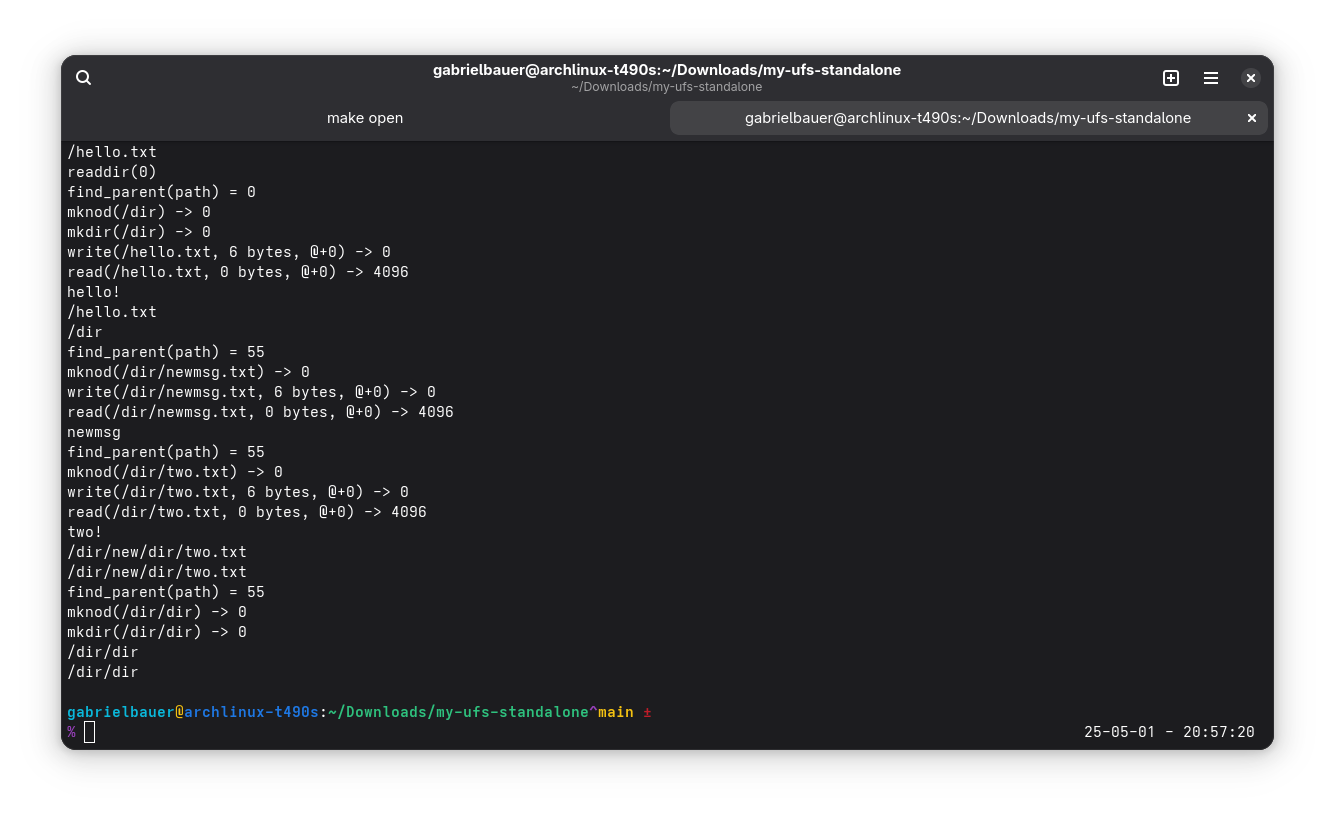
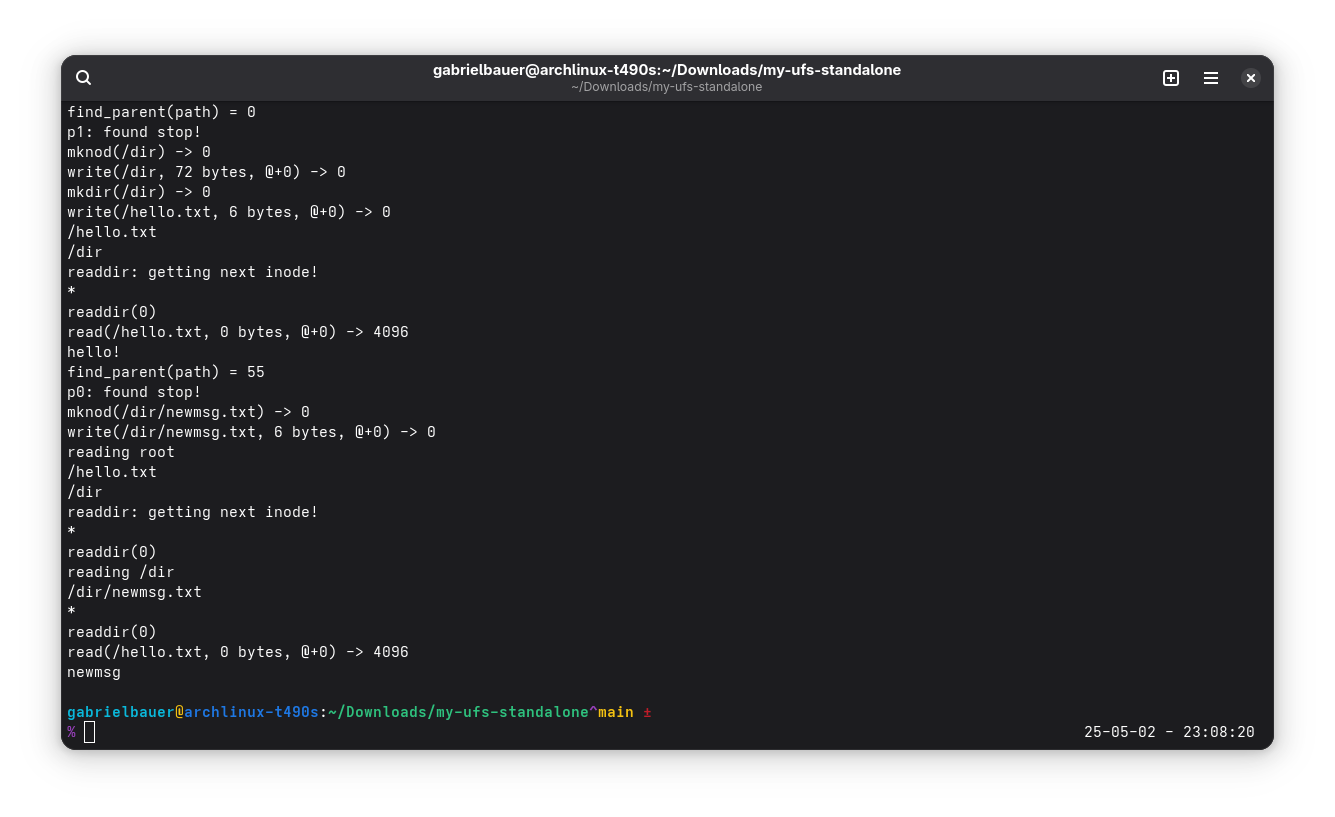
progress

diff --git a/read_root.c b/read_root.c
@@ -6,6 +6,7 @@
 #include "inode.h"
 #include "bitmap.h"
 #include "directory.h"
+#include "mkfs.h"
 
 dirent stop;
 
@@ -122,7 +123,6 @@ _mknod(const char *path, int mode, int k)
 		printf("found none, getting next inode!\n");
 		_mknod(path, mode, p->iptr);
 	}
-	printf("p1: %s\n", p1->name);
 	printf("mknod(%s) -> %d\n", path, rv);
 	return rv;
 }
@@ -133,18 +133,10 @@ mknod(const char *path, int mode)
 	return _mknod(path, mode, find_parent(path));
 }
 
-// most of the following callbacks implement
-// another system call; see section 2 of the manual
 int
-mkdir(const char *path, int mode)
+is_dir(int mode)
 {
-	int rv = mknod(path, mode | 040000);
-	//printf("%d\n", count_l(path));
-	// TODO: Nested Directories
-	/*for (int i=0; i<count_l(path)) {
-	}*/
-	printf("mkdir(%s) -> %d\n", path, rv);
-	return rv;
+	return ((040000 ^ mode) < 010000) ? true : false;
 }
 
 // Actually write data
@@ -159,7 +151,6 @@ write(const char *path, const char *buf, size_t size, off_t offset)
 	inode* h = get_inode(1);
 	char *data0, *data1;
 	int i0, i1;
-write_loop:
 	if (start) {
 		data0 = ((char*)get_root_start()+h->ptrs[0]+offset);
 		start = false;
@@ -179,7 +170,7 @@ write_loop:
 		if (n->size[0] > 0) {
 			strncpy(data0, buf, n->size[0]);
 			strncat(data1 + (int)n->size[0], buf+n->size[0], n->size[1]);
-			strncat(data1 + (int)n->size[0] + (int)n->size[1], "\0", 1);
+			data1[n->size[0] + n->size[1]] = '\0';
 			n->size[1]=p1;
 			n->ptrs[0] = h->ptrs[0];
 			h->ptrs[0] += n->size[0];
@@ -187,7 +178,7 @@ write_loop:
 			h->ptrs[0] += n->size[1];
 		} else {
 			strncpy(data0, buf, size);
-			strncat(data0, "\0", 1);
+			data0[size] = '\0';
 			n->size[0]=size;
 			n->ptrs[0] = h->ptrs[0];
 			h->ptrs[0] += size;
@@ -229,6 +220,22 @@ read_loop:
 	return rv;
 }
 
+// most of the following callbacks implement
+// another system call; see section 2 of the manual
+int
+mkdir(const char *path, int mode)
+{
+	int rv = mknod(path, mode | 040000);
+	//printf("%d\n", count_l(path));
+	strcpy(stop.name, "*");
+	write(path, (char*)&stop, sizeof(stop), 0);
+	// TODO: Nested Directories
+	/*for (int i=0; i<count_l(path)) {
+	}*/
+	printf("mkdir(%s) -> %d\n", path, rv);
+	return rv;
+}
+
 int
 main(int argc, char *argv[])
 {
@@ -242,8 +249,8 @@ main(int argc, char *argv[])
 	readdir("/");
 	read("/hello.txt", buf, 0, 0);
 	printf("%s\n", buf);	// hello!
-	//mknod("/dir/newmsg.txt", 755);
-	//write("/dir/newmsg.txt", "newmsg!", 6, 0);
+	mknod("/dir/newmsg.txt", 755);
+	write("/dir/newmsg.txt", "newmsg!", 6, 0);
 	//read("/dir/newmsg.txt", buf, 0, 0);
 	printf("reading root\n");
 	readdir("/");
